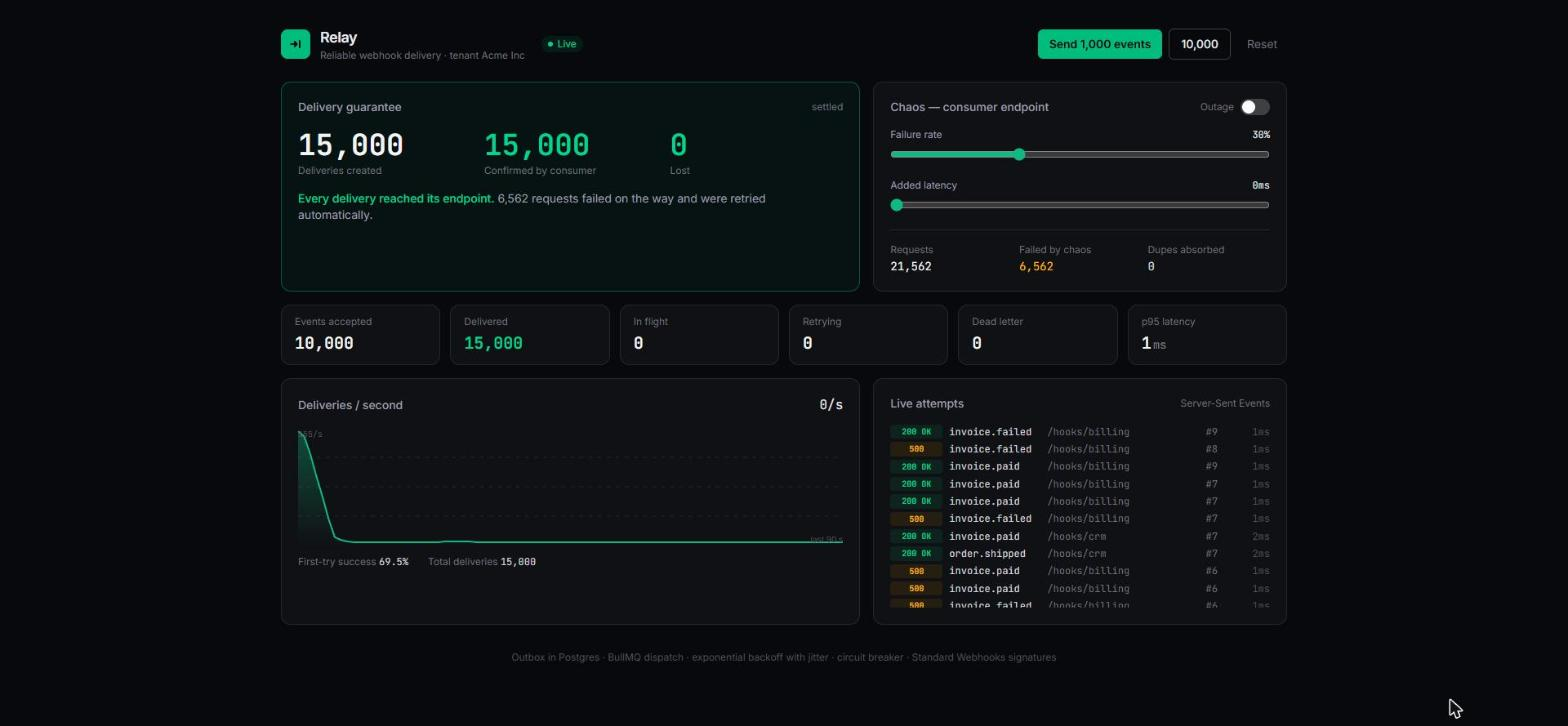
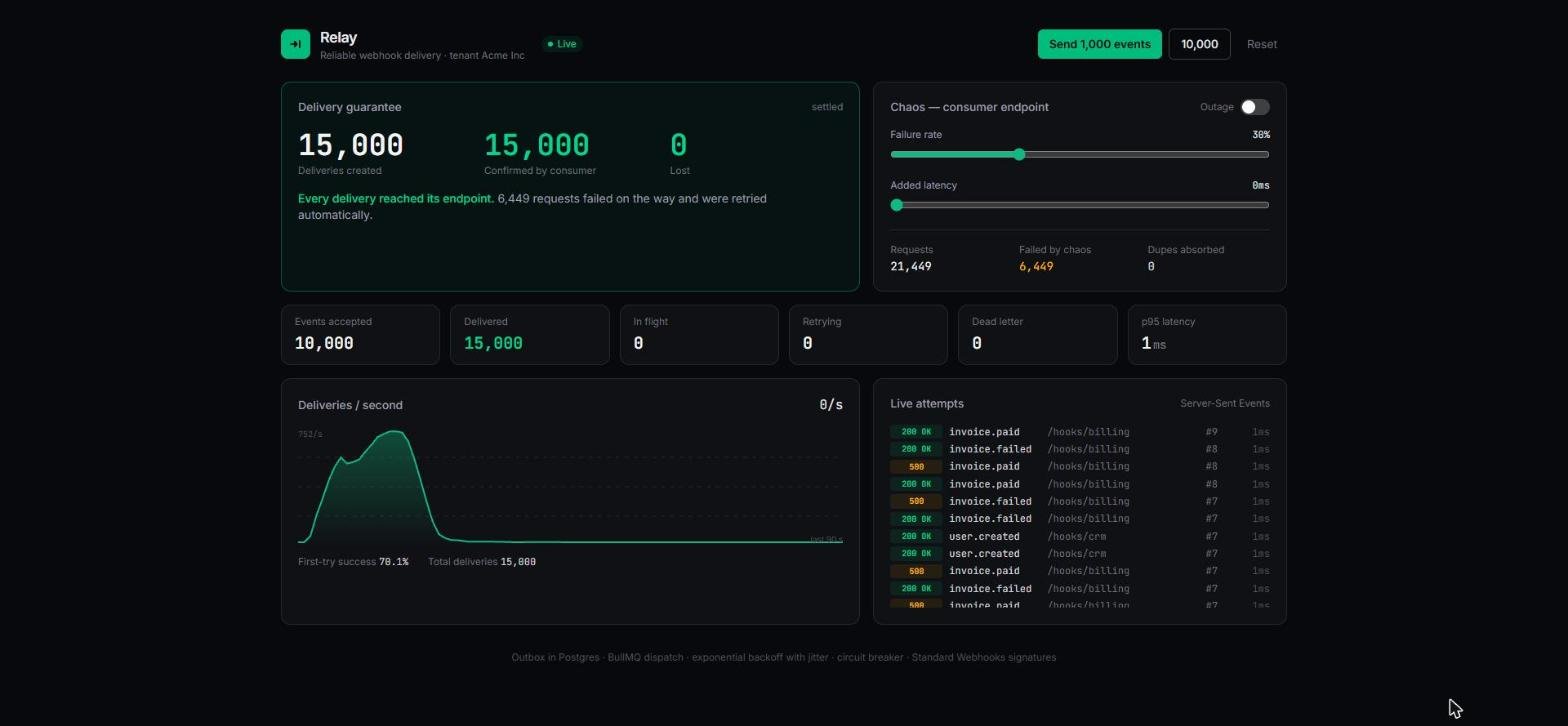
Harden security: SSRF guard, input validation, local-only ports
- Block private, loopback, link-local and metadata addresses for endpoint
  URLs, at registration and again before each delivery; no redirects
- Validate limit/id params and hide internal errors behind a generic 500
- Upgrade zod to 4.6.7 (GHSA-mrhx-c7xc-m3w5)
- Bind every compose port to 127.0.0.1
- Cap receiver body size; keep the SSE key out of nginx access logs

diff --git a/packages/core/src/ssrf.ts b/packages/core/src/ssrf.ts
@@ -1,0 +1,63 @@
+import { lookup } from "node:dns/promises";
+import { isIP } from "node:net";
+
+/**
+ * SSRF protection. Tenants choose the URLs Relay calls, so without this check
+ * anyone could point an endpoint at internal services (databases, cloud
+ * metadata at 169.254.169.254, localhost admin ports) and use Relay to reach them.
+ */
+
+const V4_BLOCKED: [number, number][] = [
+  [0x00000000, 8], // 0.0.0.0/8      "this" network
+  [0x0a000000, 8], // 10.0.0.0/8     private
+  [0x64400000, 10], // 100.64.0.0/10 carrier-grade NAT
+  [0x7f000000, 8], // 127.0.0.0/8    loopback
+  [0xa9fe0000, 16], // 169.254.0.0/16 link-local, cloud metadata
+  [0xac100000, 12], // 172.16.0.0/12 private
+  [0xc0a80000, 16], // 192.168.0.0/16 private
+  [0xe0000000, 3], // 224.0.0.0/3    multicast + reserved
+];
+
+function ipv4ToInt(ip: string): number {
+  return ip.split(".").reduce((acc, octet) => (acc << 8) + Number(octet), 0) >>> 0;
+}
+
+export function isPrivateAddress(ip: string): boolean {
+  const version = isIP(ip);
+  if (version === 4) {
+    const n = ipv4ToInt(ip);
+    return V4_BLOCKED.some(([base, bits]) => (n & (~0 << (32 - bits))) >>> 0 === base);
+  }
+  if (version === 6) {
+    const v6 = ip.toLowerCase();
+    const mapped = v6.match(/^::ffff:(\d+\.\d+\.\d+\.\d+)$/);
+    if (mapped) return isPrivateAddress(mapped[1]!);
+    return (
+      v6 === "::" ||
+      v6 === "::1" ||
+      v6.startsWith("fc") || // fc00::/7 unique local
+      v6.startsWith("fd") ||
+      /^fe[89ab]/.test(v6) // fe80::/10 link-local
+    );
+  }
+  return true; // not an IP at all: refuse
+}
+
+export class UnsafeUrlError extends Error {}
+
+/** Throws UnsafeUrlError unless the URL is http(s) and every address it resolves to is public. */
+export async function assertPublicUrl(raw: string): Promise<void> {
+  let url: URL;
+  try {
+    url = new URL(raw);
+  } catch {
+    throw new UnsafeUrlError("invalid URL");
+  }
+  if (url.protocol !== "http:" && url.protocol !== "https:") throw new UnsafeUrlError("only http(s) is allowed");
+  if (url.username || url.password) throw new UnsafeUrlError("credentials in URL are not allowed");
+
+  const host = url.hostname.replace(/^\[|\]$/g, "");
+  const addresses = isIP(host) ? [host] : (await lookup(host, { all: true }).catch(() => [])).map((a) => a.address);
+  if (!addresses.length) throw new UnsafeUrlError("host does not resolve");
+  if (addresses.some(isPrivateAddress)) throw new UnsafeUrlError("private, loopback and link-local addresses are not allowed");
+}

diff --git a/apps/worker/src/deliver.ts b/apps/worker/src/deliver.ts
@@ -1,4 +1,4 @@
-import { backoffMs, sign } from "@relay/core";
+import { assertPublicUrl, backoffMs, sign, UnsafeUrlError } from "@relay/core";
 import type { Redis } from "ioredis";
 import type { Sql } from "postgres";
 import type { CircuitBreaker } from "./circuit";
@@ -79,9 +79,14 @@ export function createDeliverer(sql: Sql, redis: Redis, circuit: CircuitBreaker)
     let statusCode: number | null = null;
     let error: string | null = null;
     const started = performance.now();
+    let unsafe = false;
     try {
+      // Re-checked at delivery time: a hostname that was public when the endpoint
+      // was registered could resolve to an internal address now.
+      if (!config.allowPrivateEndpoints) await assertPublicUrl(target.url);
       const res = await fetch(target.url, {
         method: "POST",
+        redirect: "manual", // never follow redirects to somewhere we didn't vet
         headers: {
           "content-type": "application/json",
           "user-agent": "Relay-Webhooks/1.0",
@@ -96,13 +101,15 @@ export function createDeliverer(sql: Sql, redis: Redis, circuit: CircuitBreaker)
       await res.body?.cancel();
     } catch (err) {
       const e = err as Error & { cause?: { code?: string } };
-      error = e.name === "TimeoutError" ? "timeout" : (e.cause?.code ?? e.message);
+      unsafe = err instanceof UnsafeUrlError;
+      error = unsafe ? `unsafe_destination: ${e.message}` : e.name === "TimeoutError" ? "timeout" : (e.cause?.code ?? e.message);
     }
     const latencyMs = Math.round(performance.now() - started);
     attemptDuration.observe(latencyMs / 1000);
 
     const ok = statusCode !== null && statusCode >= 200 && statusCode < 300;
-    const outcome: Outcome = ok ? "succeeded" : attempt >= config.maxAttempts ? "dead" : "retrying";
+    // An unsafe destination won't become safe by retrying: dead-letter it straight away.
+    const outcome: Outcome = ok ? "succeeded" : unsafe || attempt >= config.maxAttempts ? "dead" : "retrying";
     const nextAttemptAt = new Date(
       Date.now() + backoffMs(attempt, { baseMs: config.backoffBaseMs, capMs: config.backoffCapMs }),
     );

diff --git a/apps/api/src/routes/deliveries.ts b/apps/api/src/routes/deliveries.ts
@@ -1,5 +1,6 @@
 import type { FastifyInstance } from "fastify";
 import { sql } from "../db";
+import { isUuid, parseLimit } from "../validation";
 
 const STATUSES = new Set(["pending", "queued", "delivering", "succeeded", "dead"]);
 
@@ -7,7 +8,7 @@ export async function deliveryRoutes(app: FastifyInstance) {
   app.get("/deliveries", async (req, reply) => {
     const q = req.query as { status?: string; limit?: string };
     if (q.status && !STATUSES.has(q.status)) return reply.code(400).send({ error: "invalid_status" });
-    const limit = Math.min(Number(q.limit ?? 50), 200);
+    const limit = parseLimit(q.limit);
     return sql`
       select d.id, d.status, d.attempts, d.last_status_code, d.last_error, d.last_latency_ms,
              d.next_attempt_at, d.created_at, d.updated_at, d.delivered_at,
@@ -20,8 +21,9 @@ export async function deliveryRoutes(app: FastifyInstance) {
       limit ${limit}`;
   });
 
-  app.get("/deliveries/:id/attempts", async (req) => {
+  app.get("/deliveries/:id/attempts", async (req, reply) => {
     const { id } = req.params as { id: string };
+    if (!isUuid(id)) return reply.code(404).send({ error: "not_found" });
     return sql`
       select attempt, ok, status_code, error, latency_ms, created_at from delivery_attempts
       where delivery_id = ${id} and tenant_id = ${req.tenantId} order by attempt`;
@@ -30,6 +32,7 @@ export async function deliveryRoutes(app: FastifyInstance) {
   // Dead-letter replay: back into the outbox with a fresh retry budget.
   app.post("/deliveries/:id/replay", async (req, reply) => {
     const { id } = req.params as { id: string };
+    if (!isUuid(id)) return reply.code(404).send({ error: "not_found_or_not_dead" });
     const rows = await sql`
       update deliveries set status = 'pending', attempts = 0, next_attempt_at = now(), updated_at = now()
       where id = ${id} and tenant_id = ${req.tenantId} and status = 'dead' returning id`;

diff --git a/apps/api/src/routes/endpoints.ts b/apps/api/src/routes/endpoints.ts
@@ -1,11 +1,13 @@
 import type { FastifyInstance } from "fastify";
 import { z } from "zod";
-import { generateSecret } from "@relay/core";
+import { assertPublicUrl, generateSecret, UnsafeUrlError } from "@relay/core";
+import { config } from "../config";
 import { sql } from "../db";
+import { isUuid } from "../validation";
 
 const EndpointBody = z.object({
-  url: z.string().url(),
-  eventTypes: z.array(z.string().min(1)).default([]),
+  url: z.url({ protocol: /^https?$/ }).max(2048),
+  eventTypes: z.array(z.string().min(1).max(100)).max(50).default([]),
   secret: z.string().startsWith("whsec_").optional(),
 });
 
@@ -14,6 +16,14 @@ export async function endpointRoutes(app: FastifyInstance) {
     const body = EndpointBody.safeParse(req.body);
     if (!body.success) return reply.code(400).send({ error: "invalid_body", issues: body.error.issues });
     const { url, eventTypes, secret = generateSecret() } = body.data;
+    if (!config.allowPrivateEndpoints) {
+      try {
+        await assertPublicUrl(url);
+      } catch (err) {
+        if (err instanceof UnsafeUrlError) return reply.code(400).send({ error: "unsafe_url", message: err.message });
+        throw err;
+      }
+    }
     const [endpoint] = await sql`
       insert into endpoints (tenant_id, url, secret, event_types)
       values (${req.tenantId}, ${url}, ${secret}, ${eventTypes})
@@ -28,6 +38,7 @@ export async function endpointRoutes(app: FastifyInstance) {
 
   app.patch("/endpoints/:id", async (req, reply) => {
     const { id } = req.params as { id: string };
+    if (!isUuid(id)) return reply.code(404).send({ error: "not_found" });
     const body = z.object({ enabled: z.boolean() }).safeParse(req.body);
     if (!body.success) return reply.code(400).send({ error: "invalid_body" });
     const [row] = await sql`

diff --git a/packages/core/test/ssrf.test.ts b/packages/core/test/ssrf.test.ts
@@ -1,0 +1,42 @@
+import { describe, expect, it } from "vitest";
+import { assertPublicUrl, isPrivateAddress, UnsafeUrlError } from "../src/ssrf";
+
+describe("isPrivateAddress", () => {
+  it.each([
+    "127.0.0.1",
+    "10.1.2.3",
+    "172.16.0.1",
+    "172.31.255.255",
+    "192.168.1.10",
+    "169.254.169.254",
+    "100.64.0.1",
+    "0.0.0.0",
+    "::1",
+    "fd00::1",
+    "fe80::1",
+    "::ffff:127.0.0.1",
+  ])("blocks %s", (ip) => expect(isPrivateAddress(ip)).toBe(true));
+
+  it.each(["8.8.8.8", "172.32.0.1", "1.1.1.1", "2606:4700:4700::1111"])("allows %s", (ip) =>
+    expect(isPrivateAddress(ip)).toBe(false),
+  );
+});
+
+describe("assertPublicUrl", () => {
+  it("rejects cloud metadata", async () => {
+    await expect(assertPublicUrl("http://169.254.169.254/latest/meta-data")).rejects.toBeInstanceOf(UnsafeUrlError);
+  });
+
+  it("rejects localhost by name", async () => {
+    await expect(assertPublicUrl("http://localhost:5432")).rejects.toBeInstanceOf(UnsafeUrlError);
+  });
+
+  it("rejects non-http schemes and embedded credentials", async () => {
+    await expect(assertPublicUrl("file:///etc/passwd")).rejects.toThrow("only http(s)");
+    await expect(assertPublicUrl("https://user:pw@8.8.8.8/")).rejects.toThrow("credentials");
+  });
+
+  it("accepts a public IP literal", async () => {
+    await expect(assertPublicUrl("https://8.8.8.8/hook")).resolves.toBeUndefined();
+  });
+});

diff --git a/apps/receiver/src/index.ts b/apps/receiver/src/index.ts
@@ -33,9 +33,16 @@ const json = (res: http.ServerResponse, status: number, body: unknown) => {
   res.end(JSON.stringify(body));
 };
 
+const MAX_BODY = 1024 * 1024;
+
 const readBody = async (req: http.IncomingMessage) => {
   const chunks: Buffer[] = [];
-  for await (const chunk of req) chunks.push(chunk as Buffer);
+  let size = 0;
+  for await (const chunk of req) {
+    size += (chunk as Buffer).length;
+    if (size > MAX_BODY) throw Object.assign(new Error("payload_too_large"), { status: 413 });
+    chunks.push(chunk as Buffer);
+  }
   return Buffer.concat(chunks).toString("utf8");
 };
 
@@ -99,7 +106,8 @@ const server = http.createServer(async (req, res) => {
     if (url.pathname === "/health") return json(res, 200, { ok: true });
     return json(res, 404, { error: "not_found" });
   } catch (err) {
-    return json(res, 500, { error: (err as Error).message });
+    const status = (err as { status?: number }).status ?? 500;
+    return json(res, status, { error: status === 500 ? "internal_error" : (err as Error).message });
   }
 });
 

diff --git a/apps/api/src/routes/events.ts b/apps/api/src/routes/events.ts
@@ -2,10 +2,11 @@ import type { FastifyInstance } from "fastify";
 import { z } from "zod";
 import { sql } from "../db";
 import { eventsIngested } from "../metrics";
+import { parseLimit } from "../validation";
 
 const EventBody = z.object({
   type: z.string().min(1).max(100).regex(/^[a-z0-9_.-]+$/i),
-  payload: z.record(z.unknown()),
+  payload: z.record(z.string(), z.unknown()),
 });
 
 export async function eventRoutes(app: FastifyInstance) {
@@ -50,7 +51,7 @@ export async function eventRoutes(app: FastifyInstance) {
   });
 
   app.get("/events", async (req) => {
-    const limit = Math.min(Number((req.query as { limit?: string }).limit ?? 50), 200);
+    const limit = parseLimit((req.query as { limit?: string }).limit);
     return sql`
       select id, type, payload, idempotency_key, created_at from events
       where tenant_id = ${req.tenantId} order by created_at desc limit ${limit}`;

diff --git a/apps/api/src/index.ts b/apps/api/src/index.ts
@@ -17,6 +17,16 @@ const quiet = { logLevel: "warn" } as const;
 
 await app.register(cors, { origin: true });
 
+// Never leak internals (SQL errors, stack traces) to clients.
+app.setErrorHandler((err: Error & { statusCode?: number }, req, reply) => {
+  const status = err.statusCode ?? 500;
+  if (status >= 500) {
+    req.log.error(err);
+    return reply.code(status).send({ error: "internal_error" });
+  }
+  return reply.code(status).send({ error: err.name === "FastifyError" ? "bad_request" : err.name, message: err.message });
+});
+
 app.addHook("onResponse", async (req, reply) => {
   const route = req.routeOptions.url ?? "unknown";
   if (route === "/metrics" || route === "/v1/stream") return;

diff --git a/apps/api/src/validation.ts b/apps/api/src/validation.ts
@@ -1,0 +1,9 @@
+const UUID = /^[0-9a-f]{8}-[0-9a-f]{4}-[0-9a-f]{4}-[0-9a-f]{4}-[0-9a-f]{12}$/i;
+
+export const isUuid = (value: string) => UUID.test(value);
+
+/** Parses a ?limit= query param into 1..max, falling back on garbage input. */
+export function parseLimit(raw: string | undefined, fallback = 50, max = 200): number {
+  const n = Number.parseInt(raw ?? "", 10);
+  return Number.isFinite(n) && n > 0 ? Math.min(n, max) : fallback;
+}

diff --git a/apps/worker/src/config.ts b/apps/worker/src/config.ts
@@ -10,6 +10,8 @@ export const config = {
   databaseUrl: required("DATABASE_URL"),
   redisUrl: required("REDIS_URL"),
   metricsPort: num("METRICS_PORT", 9100),
+  /** Only for local demos: allow delivering to private/internal addresses (SSRF guard off). */
+  allowPrivateEndpoints: process.env.ALLOW_PRIVATE_ENDPOINTS === "true",
 
   /** Parallel HTTP deliveries per worker process. */
   concurrency: num("WORKER_CONCURRENCY", 50),

diff --git a/apps/api/src/config.ts b/apps/api/src/config.ts
@@ -8,6 +8,8 @@ export const config = {
   port: Number(process.env.PORT ?? 3000),
   databaseUrl: required("DATABASE_URL"),
   redisUrl: required("REDIS_URL"),
+  /** Only for local demos: lets endpoints point at private/internal addresses (SSRF guard off). */
+  allowPrivateEndpoints: process.env.ALLOW_PRIVATE_ENDPOINTS === "true",
   demo: {
     apiKey: process.env.DEMO_API_KEY,
     receiverSecret: process.env.RECEIVER_SECRET,

diff --git a/packages/core/src/index.ts b/packages/core/src/index.ts
@@ -1,2 +1,3 @@
 export * from "./signature";
 export * from "./backoff";
+export * from "./ssrf";
